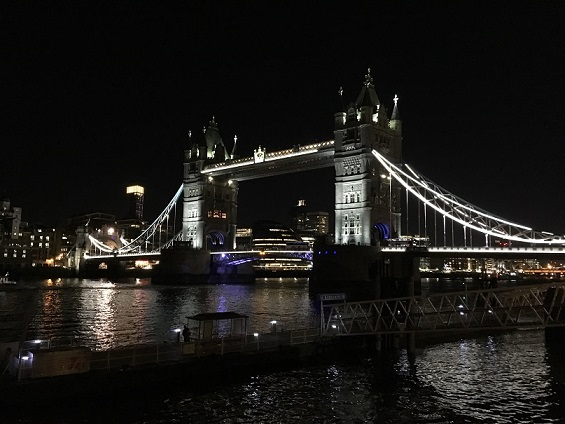
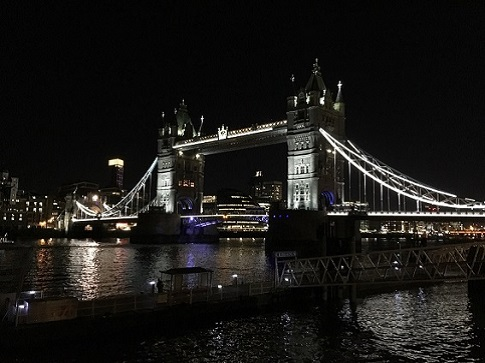
Fixed pic sizes and formatting

diff --git a/css/style.css b/css/style.css
@@ -375,70 +375,6 @@ p {
               justify-content: space-evenly;
   }
 
-// .flip-card {
-//     margin: 2rem 0;
-//     background-color: transparent;
-//     width: 480px;
-//     height: 600px;
-//     perspective: 1000px;
-//   }
-  
-//   .flip-card-inner {
-//     position: relative;
-//     width: 100%;
-//     height: 100%;
-//     border-radius: 10px;
-//     text-align: center;
-//     transition: transform 0.6s;
-//     transform-style: preserve-3d;
-//     box-shadow: 4px 8px 16px 4px rgba(0,0,0,0.8);
-//   }
-  
-//   .flip-card:hover .flip-card-inner {
-//     transform: rotateY(180deg);
-//   }
-  
-//   .flip-card-front, .flip-card-back {
-//     position: absolute;
-//     width: 100%;
-//     height: 100%;
-//     backface-visibility: hidden;
-//   }
-  
-//   .flip-card-front {
-//     border-radius: 10px;
-//     padding: 1rem;
-//     background-color: #bbb;
-//     color: black;
-//     overflow: hidden;
-//   }
-  
-//   .flip-card-front h3 {
-//     font-size: 1.5rem;
-//     font-weight: 900;
-//     text-shadow: 2px 2px 4px black;
-//   }
-//   .flip-card-front img {
-//       max-height: 30rem;
-//   }
-//   .flip-card-back {
-//     border-radius: 10px;
-//     padding: 1rem;
-//     background-color: #2980b9;
-//     color: white;
-//     transform: rotateY(180deg);
-//   }
-
-//   .flip-card-back h2 {
-//     font-size: 2rem;
-//     text-shadow: 2px 2px 6px #000000
-//   }
-
-//   .tour-flip-cards {
-//       display: flex;
-//       flex-flow: wrap;
-//       justify-content: space-evenly;
-//   }
 .wrapper {
     display: flex;
     display: inline-block;

diff --git a/london.html b/london.html
@@ -58,7 +58,7 @@
             <li>
                 <img src="./images/img2-slider.jpg" alt="image2">
                 <div class="sb-description">
-                    <h3>Frida Grafitti</h3>
+                    <h3>Frida Kahlo Grafitti</h3>
                 </div>
             </li>
 

diff --git a/css/slicebox.css b/css/slicebox.css
@@ -28,10 +28,10 @@
 }
 
 .sb-description {
-	padding: 20px;
-	bottom: 10px;
-	left: 10px;
-	right: 10px;
+	padding: 5px;
+	bottom: 5px;
+	left: 5px;
+	right: 5px;
 	z-index: 1000;
 	position: absolute;
 	background: #CBBFAE;
